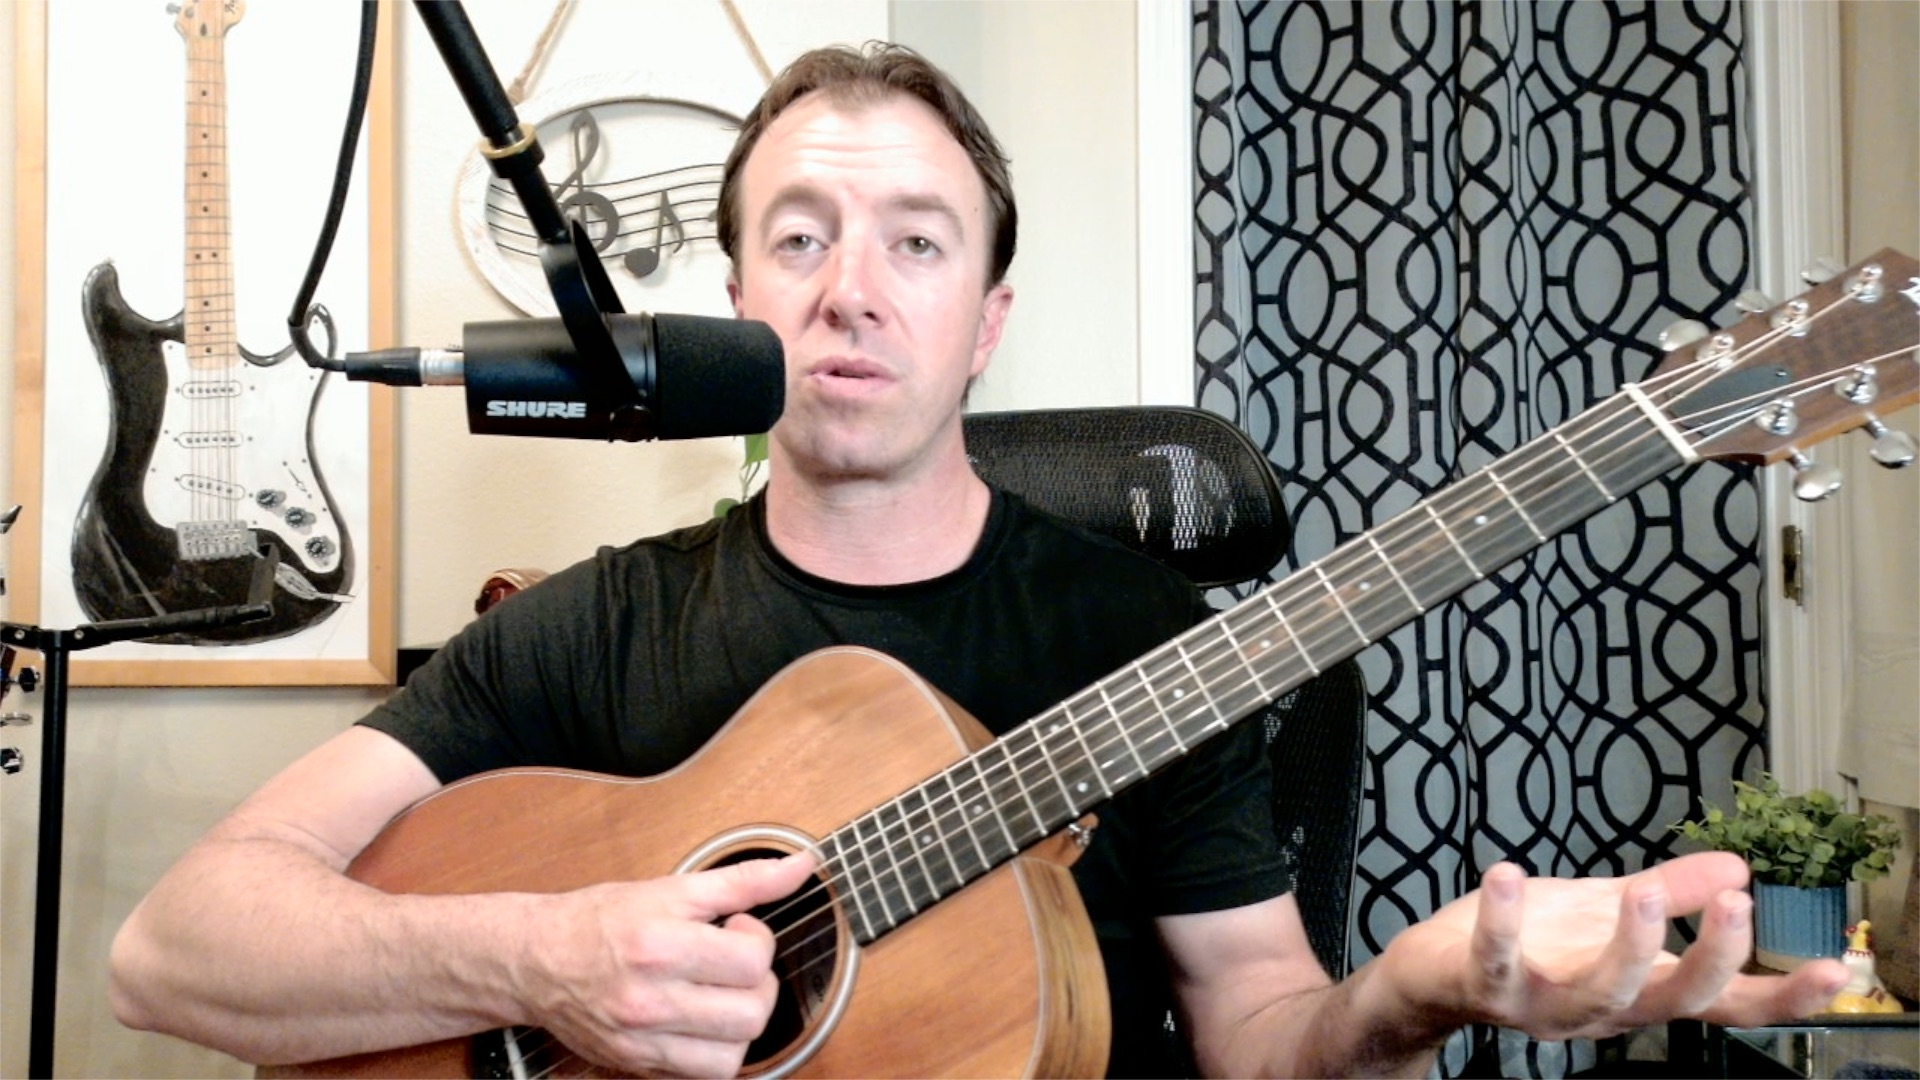
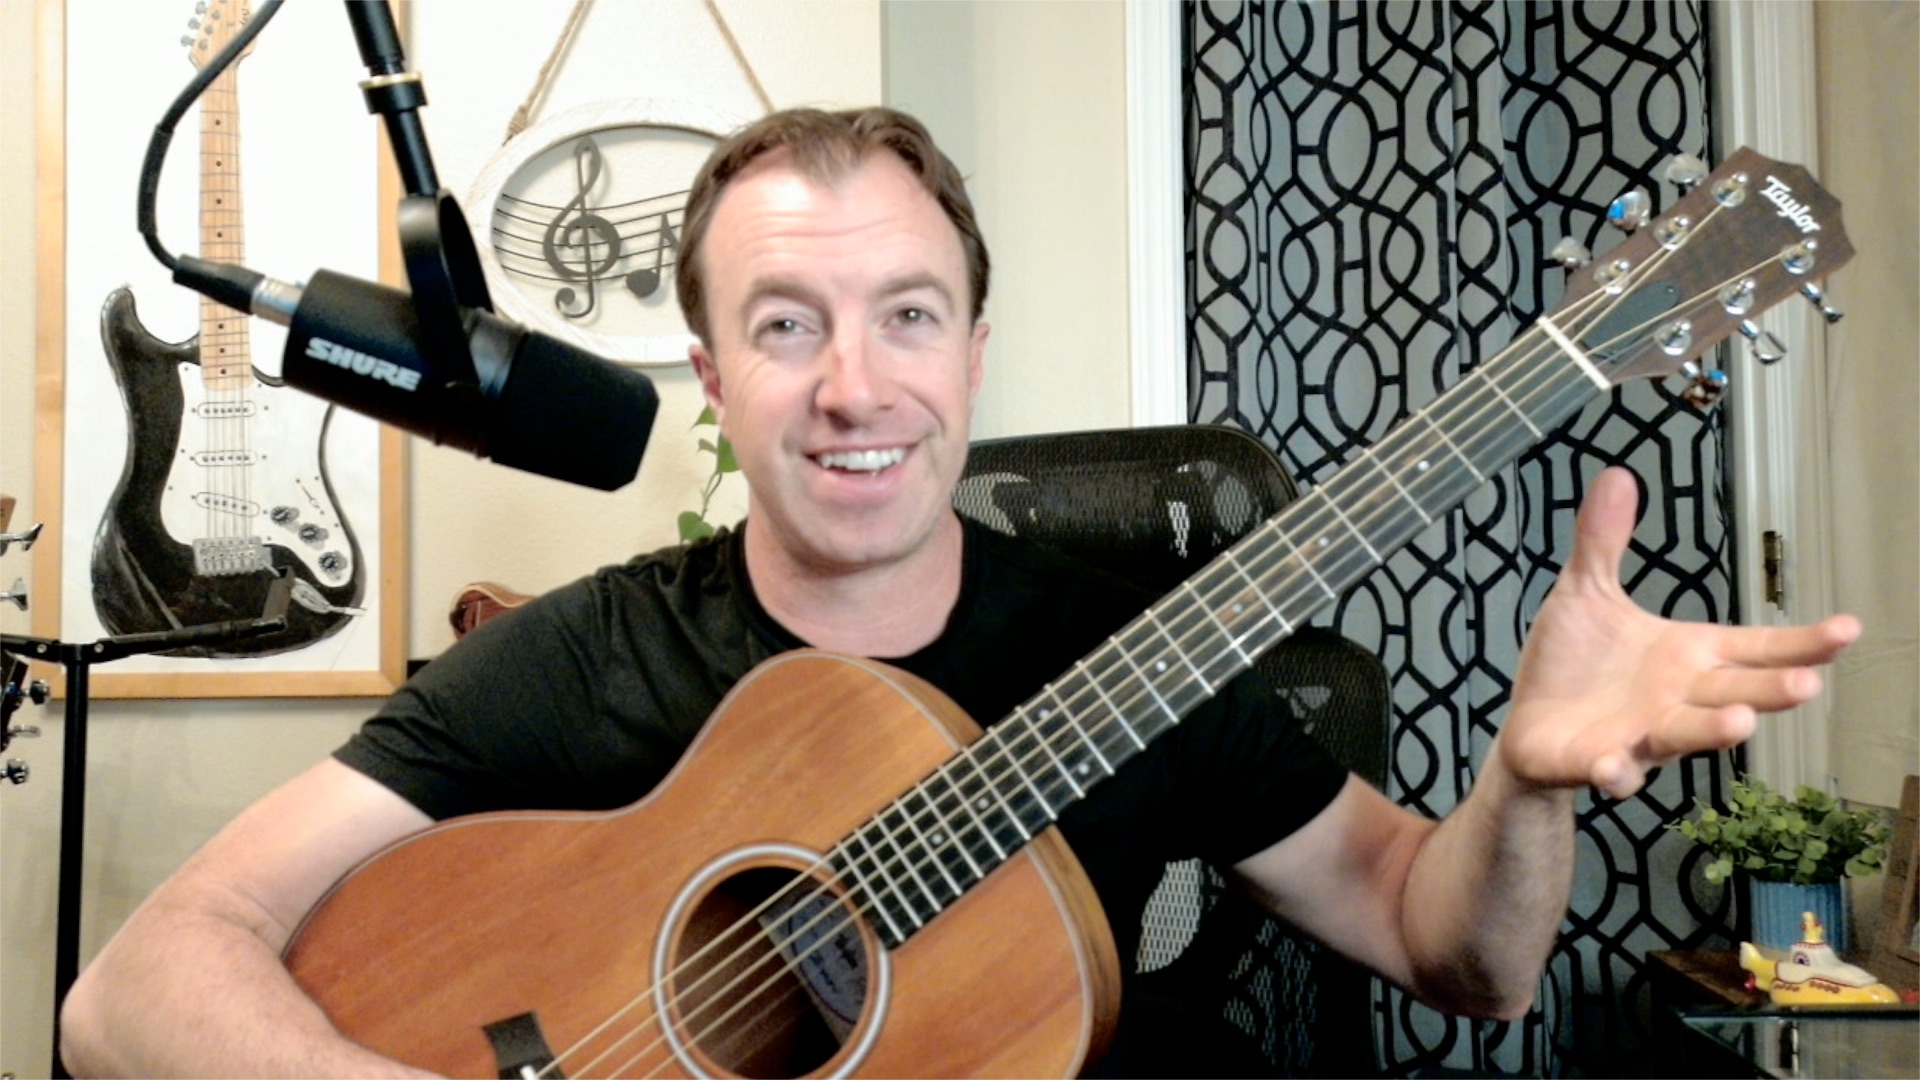
Compress lead magnet photo from 8.4MB PNG to 414KB JPEG

diff --git a/app/free-guide/page.tsx b/app/free-guide/page.tsx
@@ -46,7 +46,7 @@ export default function FreeGuidePage() {
         {/* Image below headline */}
         <div className="relative w-full sm:w-2/3 mx-auto aspect-[3/2] rounded-2xl overflow-hidden shadow-2xl mb-10">
           <Image
-            src="/images/lead-magnet.png"
+            src="/images/lead-magnet.jpg"
             alt="Nik Mathews teaching guitar — Steady Steps Music"
             fill
             className="object-cover object-center"
